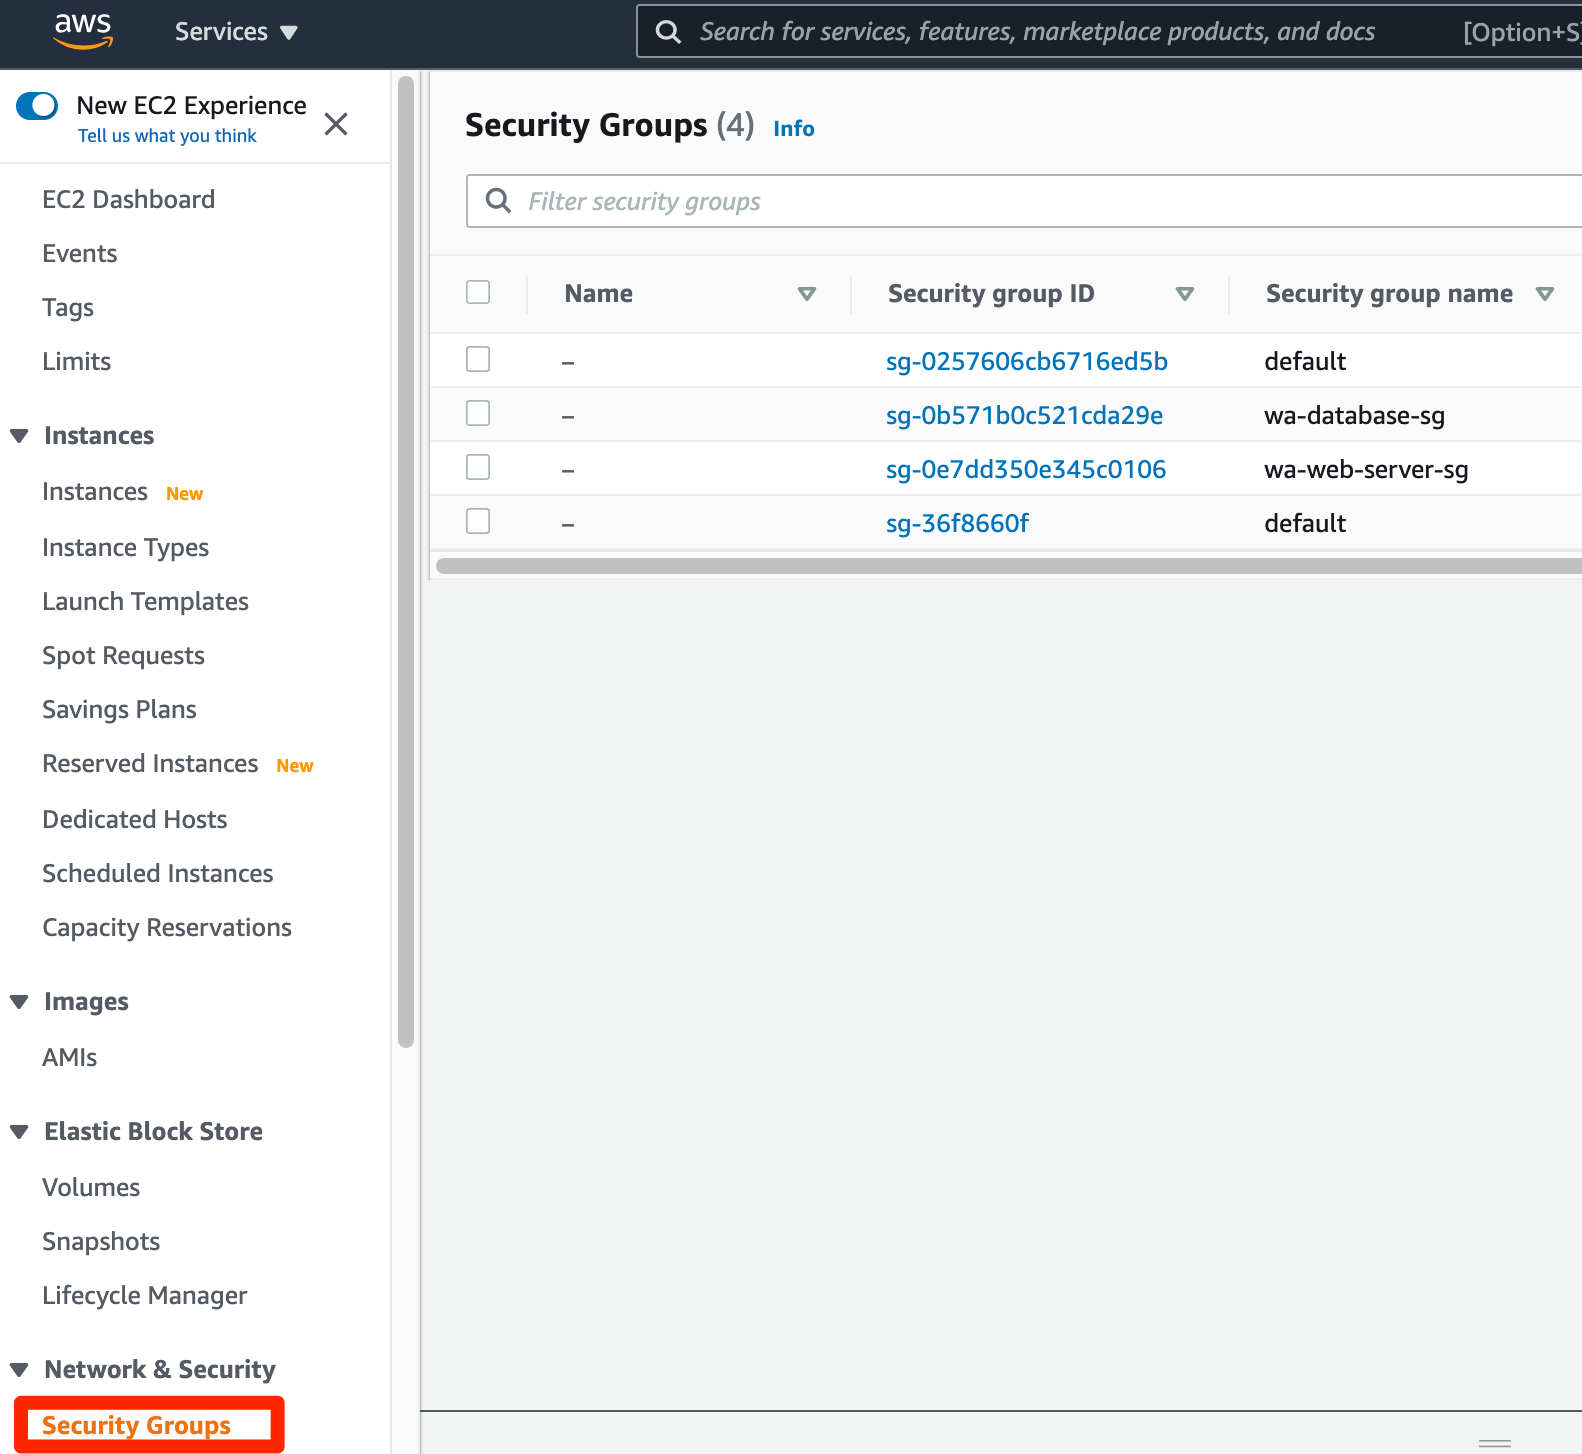
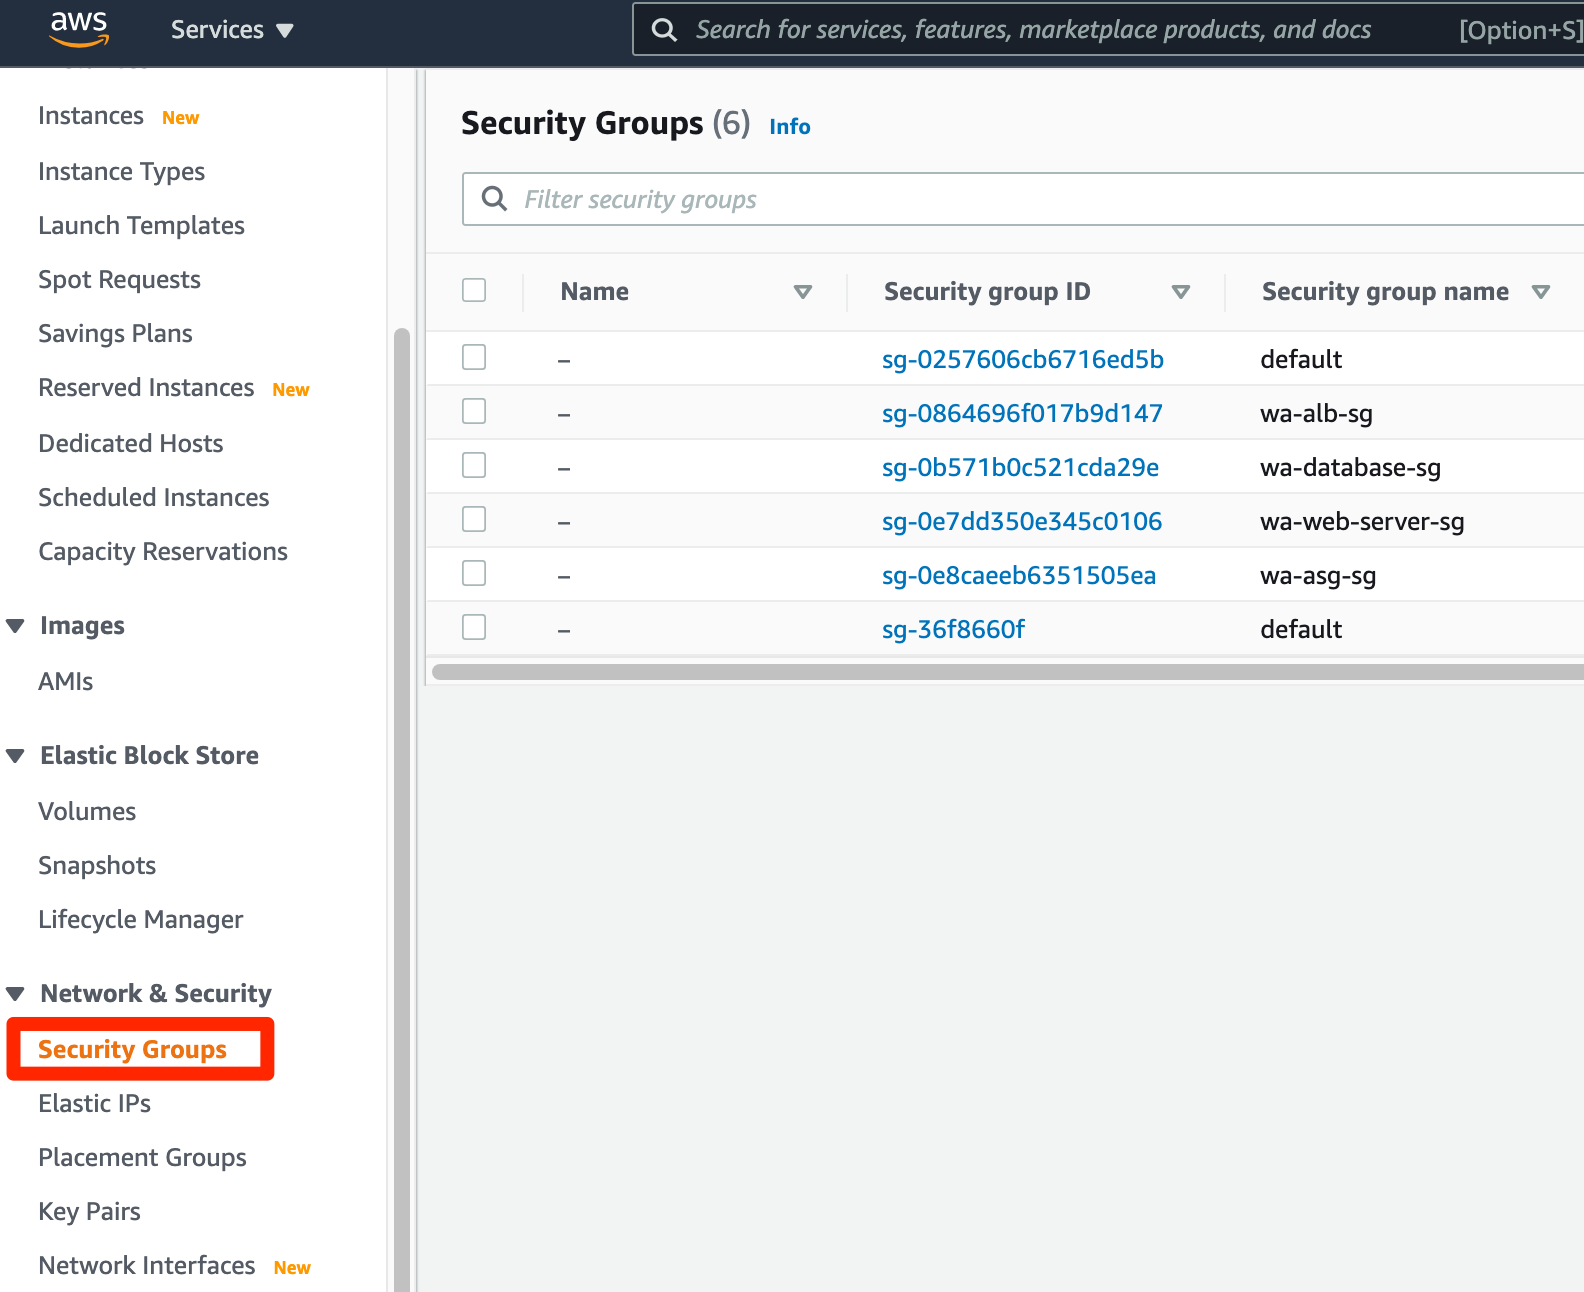
update

Changed region(s): [[0.0, 0.0, 1.0, 1.0], [0.9292, 0.9907, 0.9602, 1.0]]

diff --git a/content/work4/task-6.md b/content/work4/task-6.md
@@ -7,30 +7,56 @@ weight = 6
 Finally, let's further reduce administrative risks by reducing access and improving logging. With our current setup, there is still a risk of open administrative ports, right? It's a bigger risk if those ports are open to the internet and a smaller risk if open internally for malware to find. Can we find a way around this requirement?
 
 1.  Let's go back to **VPC** and **Security Groups**.
-2.  Open the **Services Server Security Group** and the **Inbound Rules**.
-3.  Now, despite the fact that those are made up IPs, you are going to **Edit Rules** and delete all the rules (Click the x on the right). Then **Save** and **Close**.
-4.  But with no access, how can we monitor or log into the box if we need to? Our **Service** called **Systems Manager** can help there.
+
+<img src="../images/ssm1.png" alt="drawing" width="600"/>
+
+2.  Open the **wa-asg-sg** 
+
+<img src="../images/ssm2.png" alt="drawing" width="900"/>
+
+3. Check the **Inbound Rules**. There is no rule to access the instances using SSH protocol (Port 22) 
+
+<img src="../images/ssm3.png" alt="drawing" width="600"/>
+
+4.  But with no access, how can we monitor or log into the box if we need to? Our **Service** called **Systems Manager** can help there. You are already familiar with this service because you used it in Lab 1.
+
+<img src="../images/ip9.png" alt="drawing" width="800"/> 
+
 5.  Systems Manager has a feature called **Session Manager** worth checking out.
-6.  At **Sessions**, you can **Start a session** with any server with the SSM agent and access to the SSM Service.
-7.  We disabled all access to the **Services Server for AZ1**, yet there it is. Let's select it and **Start session**.
+
+<img src="../images/ssm4.png" alt="drawing" width="600"/>
+
+6.  Click on **Start session**.
+
+<img src="../images/ssm5.png" alt="drawing" width="600"/>
+
+7.  Remember that we are using Amazon Linux 2 instances, they have SSM agent installed by default. According to that, you can start a session an access the instances. Select one instance and click on **Start session**.  
+
+<img src="../images/ssm6.png" alt="drawing" width="900"/>
+
 8.  Is this a console? For the AWS server? Let's find out.\
     Type:
 
-    >  TOKEN=`curl -X PUT "http://169.254.169.254/latest/api/token" -H "X-aws-ec2-metadata-token-ttl-seconds: 21600"`
-    >  curl -H "X-aws-ec2-metadata-token: $TOKEN"  http://169.254.169.254/latest/meta-data/instance-id
+    ```
+	TOKEN=`curl -X PUT "http://169.254.169.254/latest/api/token" -H "X-aws-ec2-metadata-token-ttl-seconds: 21600"`
+    curl -H "X-aws-ec2-metadata-token: $TOKEN"  http://169.254.169.254/latest/meta-data/instance-id
+	```
 
     Does that instance ID look familiar?
 
-    >  curl -H "X-aws-ec2-metadata-token: $TOKEN"  http://169.254.169.254/latest/meta-data/security-groups
+    ```
+    curl -H "X-aws-ec2-metadata-token: $TOKEN"  http://169.254.169.254/latest/meta-data/security-groups
+    ```
 
-    That looks like the Security Group we modified doesn't it?
+    That looks like the Security Group we checked, doesn't it?
 
-    >  ping 8.8.8.8
+    ```
+    ping 8.8.8.8
+    ```
 
     Should it work?
 
-    >  curl -H "X-aws-ec2-metadata-token: $TOKEN"  http://169.254.169.254/latest/meta-data/iam/security-credentials/SharedServerConnectivityRole
-
     Sure looks like an AWS server.
 
-Congratulations! You have successfully set up this AWS environment for strong logging with Cloudtrail and Config, granular communication with Security Groups and NACLs, intelligent threat detection with AWS GuardDuty, and configured your machines to have safe administrative access without requiring access from the public internet.
+---
+**Congratulations! :)** You have successfully set up this AWS environment for strong logging with Cloudtrail and Config, granular communication with Security Groups and NACLs, intelligent threat detection with AWS GuardDuty, and configured your machines to have safe administrative access without requiring access from the public internet.

diff --git a/content/work4/task-5.md b/content/work4/task-5.md
@@ -4,17 +4,51 @@ chapter = false
 weight = 5 
 +++
 
-1.  Let's go back to **GuardDuty** and see what findings we may have. If this is a new or infrequently used account, you may have no Findings. If you do have Findings and this is not a new account, we can walk through those separately.
-2.  Since this is a good design and relatively new, let's create some demonstration findings in **Settings**
-3.  After we **Generate sample findings** we can go back to the **Findings**
-4.  16 High Severity Findings, 30 Medium Severity Findings, and 7 Informational Findings (where can you see those numbers quickly) show up. Let's investigate the High Severity finding called **[SAMPLE] [SAMPLE] Backdoor:EC2/DenialOfService.Dns**
-5.  You can see the (fake) instance that caused this Finding, what the instance did wrong, when it occurred, and more information. The ".Dns" at the end means something, do you know what? Does the **Action Type** help?
-    -   What are the 3 data sources GuardDuty uses?
-6.  **Scrolling down** the Findings list again you see another high severity **[SAMPLE] Backdoor:EC2/DenialOfService.UdpOnTcpPorts**.
-7.  Here you see a lot of the same type of information. But why is this **Action Type** different?
-    -   If we didn't turn on those logs how did it see the traffic?
-8.  **Scrolling down** the Findings list a bit more you find **[SAMPLE]UnauthorizedAccess:IAMUser/InstanceCredentialExfiltration**
-9.  This one not only has a different **Action Type** but also starts with **IAMUser** instead of **EC2**. Why does that matter?
-    -   Is this a different data source?
+1.  Let's go back to **GuardDuty** and see what findings we may have. Because this is a new account, you may have no Findings. 
+
+<img src="../images/ct11.png" alt="drawing" width="600"/>
+
+2. Since this is a good design and relatively new, let's create some demonstration findings in **Settings**
+
+<img src="../images/gd1.png" alt="drawing" width="800"/>
+
+3.  Go to **Sample findings** and click on **Generate sample findings**
+
+<img src="../images/gd2.png" alt="drawing" width="600"/>
+
+4. Go to  **Findings**
+
+<img src="../images/gd3.png" alt="drawing" width="600"/>
+
+5.  Now we have High, Medium and Low Severity Findings. You can identify the number of findings per severity checking at the top right of your screen
+
+<img src="../images/gd4.png" alt="drawing" width="300"/>
+
+In this case we have:
+
+* 12 **Low** Severity Findings
+* 30 **Medium** Severity Findings
+* 32 **High** Severity Findings
+
+6. We are going to filter the High Severity Findings just clicking on the red icon.
+
+<img src="../images/gd5.png" alt="drawing" width="700"/>
+
+7. Let's investigate the High Severity finding called **[SAMPLE] [SAMPLE] Backdoor:EC2/DenialOfService.Dns**
+
+<img src="../images/gd7.png" alt="drawing" width="700"/>
+
+8.  You can see the (fake) instance that caused this Finding, what the instance did wrong, when it occurred, and more information. If you **scroll down** into the finding details, you will see information related to the **Action** which gives details on the type of activity that triggered the finding. The information available varies based on action type.
+
+<img src="../images/gd8.png" alt="drawing" width="700"/>
+
+9. Take a look at other findings. 
+
+<img src="../images/gd9.png" alt="drawing" width="700"/>
+
 
 Now you've seen that GuardDuty is monitoring logs on your behalf, and without you having to pay for storage, the AI/ML or Threat feeds, and the man hours to do the analysis. This is all happening at Cloud scale too, no longer do you need to have terabytes of logs that are never touched.
+
+{{% notice tip %}}
+Learn more about **Amazon GuardDuty** findings here: https://docs.aws.amazon.com/guardduty/latest/ug/guardduty_findings.html
+{{% /notice %}}

diff --git a/content/work4/task-4.md b/content/work4/task-4.md
@@ -12,21 +12,40 @@ We just made a bunch of changes, and on-premises it may be difficult to track th
 
 2.  The Dashboard shows us some recent events, but we want to see the complete **Event History**.
 
+<img src="../images/ct13.png" alt="drawing" width="700"/>
+
 3.  Here we can see your **User Name** performing actions tracked by **Event name** against different **Resource Names**. API commands not related to Data (because we chose that earlier) are being captured by CloudTrail.
+
+<img src="../images/ct14.png" alt="drawing" width="700"/>
 
 4.  You can remove the system calls by using a **Filter** on **User Name** and putting your **User Name** in the text box and hitting enter. Now **Scroll down**. Do you see all the ACL's you changed? But again, seeing these API calls doesn't give you a good visual of the changes occurring.
 
+<img src="../images/ct15.png" alt="drawing" width="700"/>
+
 5.  Let's go to **Config**.
+
+<img src="../images/ct7.png" alt="drawing" width="600"/>
 
 6.  I can see all of my resources, including some called **EC2 NetworkAcl**.
 
-7.  Clicking there gives you a list of ACL's, and you can **click** on the first one.
+<img src="../images/cg1.png" alt="drawing" width="600"/>
 
-8.  Seeing details on that ACL, you can also see a visual **Configuration Timeline**
+7.  Clicking there (*EC2 NetworkAcl*) gives you a list of ACL's, and you can **click** on the first one.
 
-9.  In the configuration timeline, you can see the changes that occurred over the past few minutes.
-    -   If you don't see any changes go back and choose a different ACL
-    
-10. If you expand **Changes** you can see exactly what changes you made to the resource, including what you applied it to as a **Relationship Change**.
+<img src="../images/cg2.png" alt="drawing" width="600"/>
 
-How would you do this on-premises?
+8.  Seeing details on that ACL, you can also see a visual **Resource Timeline**
+
+<img src="../images/cg3.png" alt="drawing" width="600"/>
+
+9.  In the resource timeline, you can see the changes that occurred over the past few minutes. If you expand **Changes** you can see exactly what changes you made to the resource, including what you applied it to as a **Relationship Change**.
+
+<img src="../images/cg4.png" alt="drawing" width="800"/>
+
+{{% notice warning %}}
+If you don't see any changes go back and choose a different ACL.
+{{% /notice %}}
+
+-----
+##### How would you do this on-premises?
+-----

diff --git a/content/work4/_index.md b/content/work4/_index.md
@@ -10,9 +10,13 @@ The Security pillar encompasses the ability to protect data, systems, and assets
 
 <img src="images/sec.png" alt="drawing" width="150"/>
 
+{{% notice note %}}
+Security is the number 1 priority for The New Company customer . According to the Well-Architected Framework Review (WAFR), you as an AWS Partner recommend to implement some cloud native controls to prevent and detect security issues. 
+{{% /notice %}}
+
 ## Objective
 
-In this hands-on activity, you will identify which cloud-native solutions can mitigate the risks while providing scalability, reliability, and cost optimization at a low operational burden. During this Lab, you will learn how to use cloud native controls like CloudTrail, Security Groups, GuardDuty* and Systems Manager, to secure the cloud architecture. 
+In this hands-on activity, you will identify which cloud-native solutions can mitigate the risks while providing scalability, reliability, and cost optimization at a low operational burden. During this Lab, mainly you will apply the **Enable traceability** desing principle, learning how to use cloud native controls like CloudTrail, Security Groups, GuardDuty and Systems Manager, to secure the cloud architecture. 
 
 ## Services
 

diff --git a/content/work4/task-1.md b/content/work4/task-1.md
@@ -80,9 +80,15 @@ You can close the Welcome box that it is open after the Confirmation.
 
 <img src="../images/ct11.png" alt="drawing" width="600"/>
 
-12. After **Getting Started** we can quickly enable this service with just one click. It’s that easy. We'll check out what GuardDuty monitoring is later.
+12. After **Getting Started** we can quickly enable this service with just one click. It’s that easy. 
 
 <img src="../images/ct12.png" alt="drawing" width="600"/>
+
+13. We are going to **Enable GuardDuty** 30 day free trial. 
+
+<img src="../images/ct16.png" alt="drawing" width="600"/>
+
+We'll check out what GuardDuty monitoring is later.
 
 {{% notice note %}}
 When we looked at on-premises environment we identified that disjointed security tooling, lack of insight into what’s going on in the environment, and difficulty managing change control and permissions in the environment all led to risks becoming problems pretty fast. With the services we just enabled, we’ll see how we now have complete insight into who’s doing what in the environment, what changes are being made, and if and when problems start to arise.

diff --git a/content/work2/_index.md b/content/work2/_index.md
@@ -16,7 +16,7 @@ Remember that one of the insights found in the Well-Architected Framework Review
 
 ## Objective
 
-In this Lab, you will use AWS Systems Manager according to the “Perform operations as code” design principle. You will create a Resource Group with both Amazon EC2 instances and use the “Run command” option in SSM to install the Amazon CloudWatch agent for collecting logs and getting some additional metrics. The tasks in this Lab will guide you through the steps to achieve this objective.
+In this Lab, you will use AWS Systems Manager according to the **“Perform operations as code”** design principle. You will create a Resource Group with both Amazon EC2 instances and use the “Run command” option in SSM to install the Amazon CloudWatch agent for collecting logs and getting some additional metrics. The tasks in this Lab will guide you through the steps to achieve this objective.
 
 ## Services
 

diff --git a/content/work4/task-2.md b/content/work4/task-2.md
@@ -27,7 +27,7 @@ Let's review and improve upon granular control of communication between workload
 
 <img src="../images/sg7.png" alt="drawing" width="700"/>
 
-6. For **Destination**, look for the Security Group name **wa-web-server-dg** and select it. Click on **Save rule**.
+6. For **Type**, select *"All Trafic"*. For **Destination**, look for the Security Group name **wa-web-server-dg** and select it. Click on **Save rule**.
 
 <img src="../images/sg9.png" alt="drawing" width="700"/>
 
